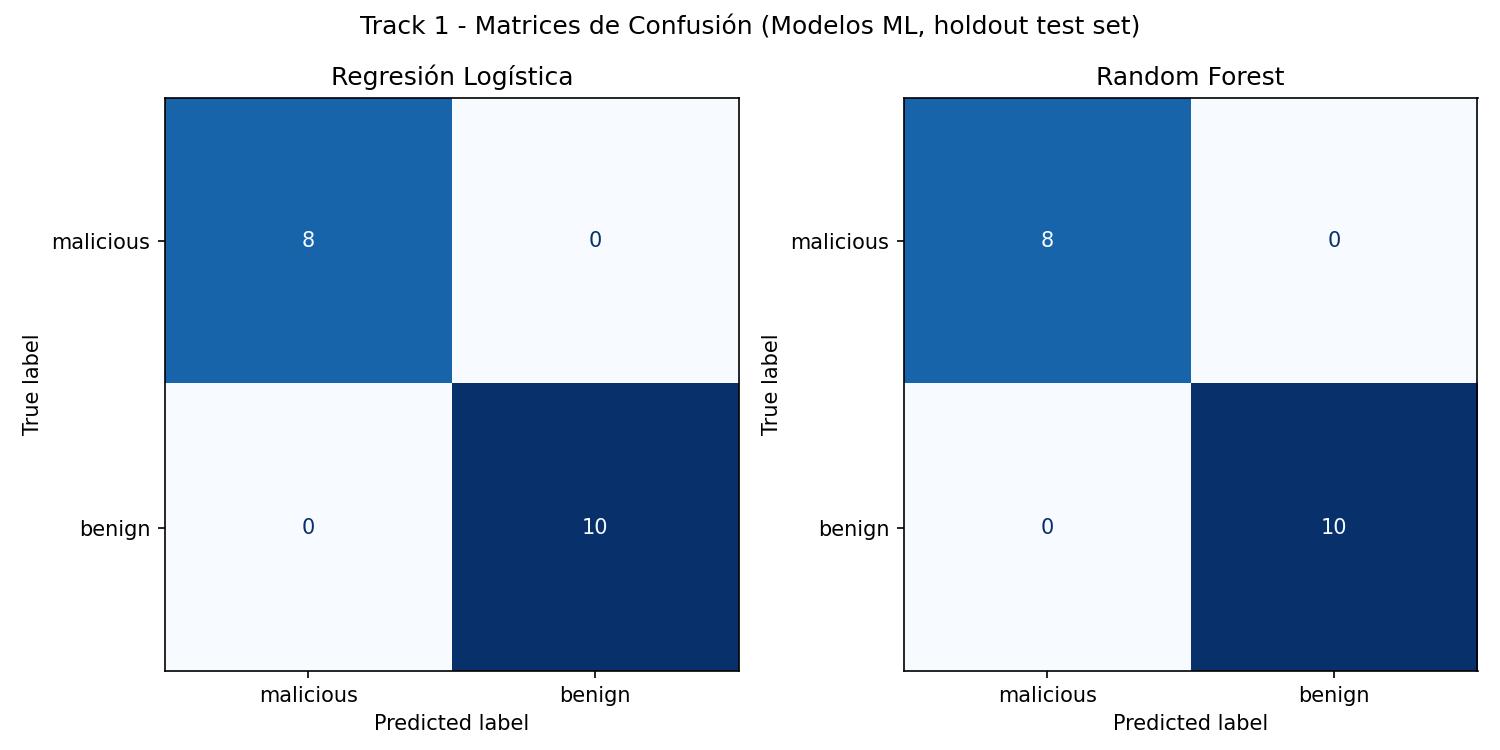
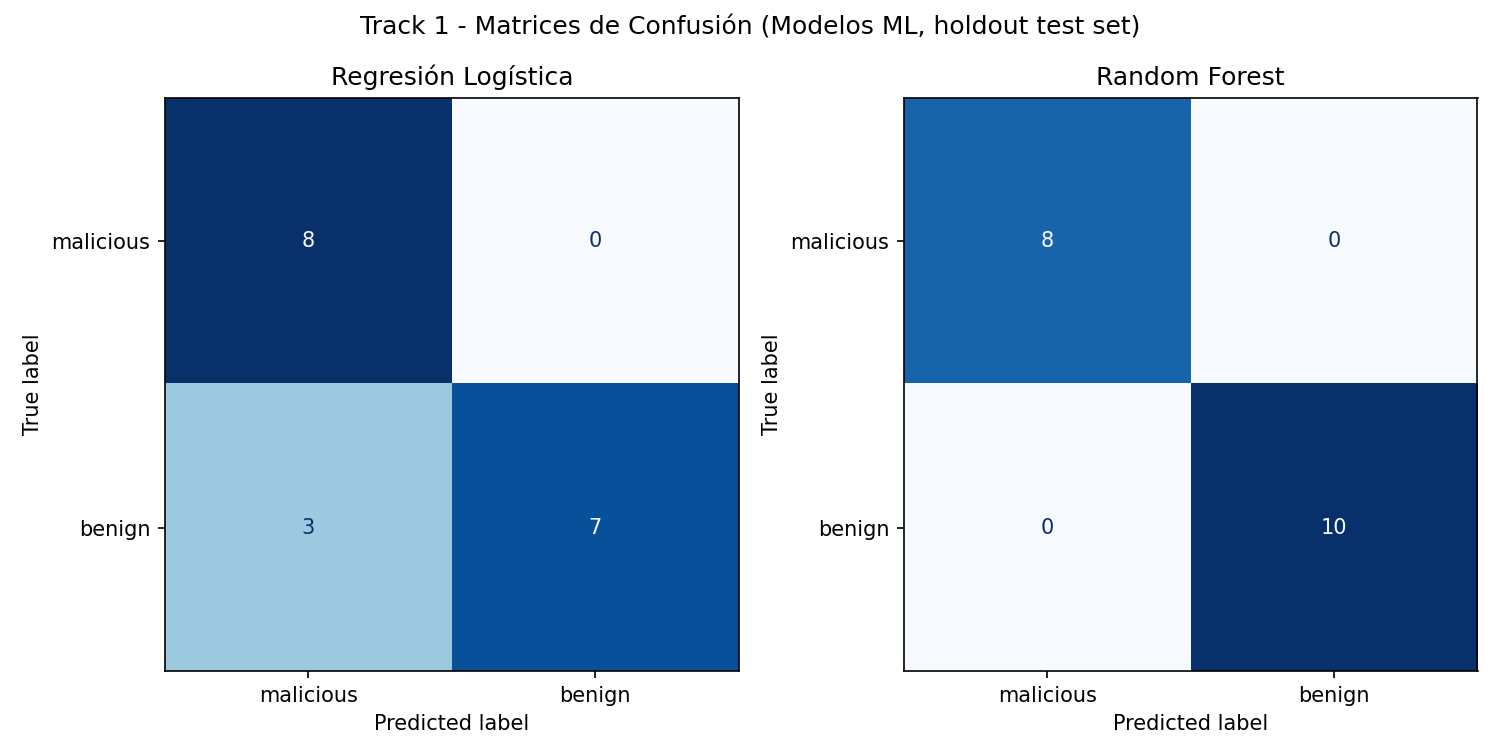
Añade StandardScaler al Pipeline de la Regresión Logística y actualiza los resultados del Track 1

Changed region(s): [[0.092, 0.1227, 0.4907, 0.92]]

diff --git a/tfg/track1/train_evaluate_ml_track1.py b/tfg/track1/train_evaluate_ml_track1.py
@@ -5,10 +5,15 @@
 # heurística, recalculada aquí con la misma regla que evaluate_track1.py.
 #
 # Features: vt_malicious, vt_suspicious, abuse_confidence, abuse_total_reports, 
-# otx_pulse_count, otx_tag_count (tabla 5, Apartado 2.6.1)
+# otx_pulse_count, otx_tag_count (Tabla 9, Apartado 2.7.1)
+#
+# Para la Regresión Logística estandarizo las variables (usando StandardScaler dentro 
+# de un Pipeline y ajustándolo solo con el train de cada partición) para que los 
+# coeficientes se puedan comparar entre sí.
 #
 # Atención con el tamaño de muestra: con 58 IOCs etiquetados, la validación cruzada 5-fold
-# deja folds de menos de 10 muestras, lo que limita la fiabilidad estadística.
+# deja folds de unas 12 muestras, lo que limita bastante la fiabilidad estadística. 
+# Hay que tenerlo en cuenta al interpretar los resultados.
 # Por eso utilizo un split 70/30, en lugar de 80/20, para mantener un conjunto de test 
 # más representativo dado el pequeño tamaño de muestra. La limitación se reconoce 
 # en el Apartado 3.5; la comparación sigue siendo válida como primera pasada.
@@ -20,6 +25,8 @@ import numpy as np
 import matplotlib.pyplot as plt
 from sklearn.linear_model import LogisticRegression
 from sklearn.ensemble import RandomForestClassifier
+from sklearn.pipeline import make_pipeline
+from sklearn.preprocessing import StandardScaler
 from sklearn.model_selection import StratifiedKFold, cross_val_score, train_test_split
 from sklearn.metrics import balanced_accuracy_score, f1_score, ConfusionMatrixDisplay, confusion_matrix
 
@@ -114,7 +121,9 @@ def main():
     cv = StratifiedKFold(n_splits=5, shuffle=True, random_state=RANDOM_STATE)
 
     models = {
-        "Regresión Logística": LogisticRegression(max_iter=1000, class_weight="balanced"),
+        "Regresión Logística": make_pipeline(
+            StandardScaler(), LogisticRegression(max_iter=1000, class_weight="balanced")
+        ),
         "Random Forest": RandomForestClassifier(
             n_estimators=200, random_state=RANDOM_STATE, class_weight="balanced"
         ),
@@ -177,20 +186,23 @@ def main():
         print(cm)
 
         # En RF (Random Forest) miramos importancias; en LR (Logistic Regression), coeficientes.
-        # Son las 2 formas de ver qué pesa más en cada modelo.
-        if hasattr(model, "feature_importances_"):
+        # Saco el modelo real del Pipeline (el último paso) para poder mirar sus atributos.
+        # Si no está en un Pipeline, uso el modelo tal cual.
+        estimator = model[-1] if hasattr(model, "steps") else model
+
+        if hasattr(estimator, "feature_importances_"):
             print("Importancia de Características:")
 
             for feature_name, importance in sorted(
-                zip(FEATURE_NAMES, model.feature_importances_), key=lambda item: -item[1]
+                zip(FEATURE_NAMES, estimator.feature_importances_), key=lambda item: -item[1]
             ):
                 print(f"  {feature_name:<22} {importance:.3f}")
 
-        elif hasattr(model, "coef_"):
+        elif hasattr(estimator, "coef_"):
             print("Coeficientes:")
 
             for feature_name, coef in sorted(
-                zip(FEATURE_NAMES, model.coef_[0]), key=lambda item: -abs(item[1])
+                zip(FEATURE_NAMES, estimator.coef_[0]), key=lambda item: -abs(item[1])
             ):
                 
                 print(f"  {feature_name:<22} {coef:+.3f}")

diff --git a/tfg/track1/cross_validate_ml_track1.py b/tfg/track1/cross_validate_ml_track1.py
@@ -1,12 +1,16 @@
 # cross_validate_ml_track1.py
 # Validación cruzada repetida (5x10) para el Track 1.
-# Se repite porque en el script original (train_evaluate_ml_track1.py) daba 1.000
-# en todo, y hay sospechas de que es porque vt_malicious separa las clases casi sola.
+# Se repite porque en el script original (train_evaluate_ml_track1.py) Random Forest daba 1.000, 
+# y hay sospechas de que es porque vt_malicious separa las clases casi sola.
 # Aquí se repite el proceso con otras particiones, quitando las variables de VirusTotal
 # para ver si AbuseIPDB y OTX siguen sirviendo de algo.
 #
 # Se reutiliza la carga de datos del script anterior para no tener código duplicado.
-# Salida: track1_cv_repetida.csv
+# Salida: track1_cross_validation.csv
+#
+# Como en train_evaluate_ml_track1.py, la Regresión Logística va dentro de un Pipeline 
+# con StandardScaler para que las variables estén a la misma escala. 
+# El Random Forest no lo necesita, ya que se basa en árboles.
 
 import csv
 import json
@@ -15,6 +19,8 @@ import numpy as np
 import matplotlib.pyplot as plt
 from sklearn.linear_model import LogisticRegression
 from sklearn.ensemble import RandomForestClassifier
+from sklearn.pipeline import make_pipeline
+from sklearn.preprocessing import StandardScaler
 from sklearn.model_selection import RepeatedStratifiedKFold, cross_validate
 
 from train_evaluate_ml_track1 import (
@@ -62,7 +68,9 @@ def main():
     }
 
     models = {
-        "Regresión Logística": LogisticRegression(max_iter=1000, class_weight="balanced"),
+        "Regresión Logística": make_pipeline(
+            StandardScaler(), LogisticRegression(max_iter=1000, class_weight="balanced")
+        ),
         "Random Forest": RandomForestClassifier(
             n_estimators=200, random_state=RANDOM_STATE, class_weight="balanced"
         ),
